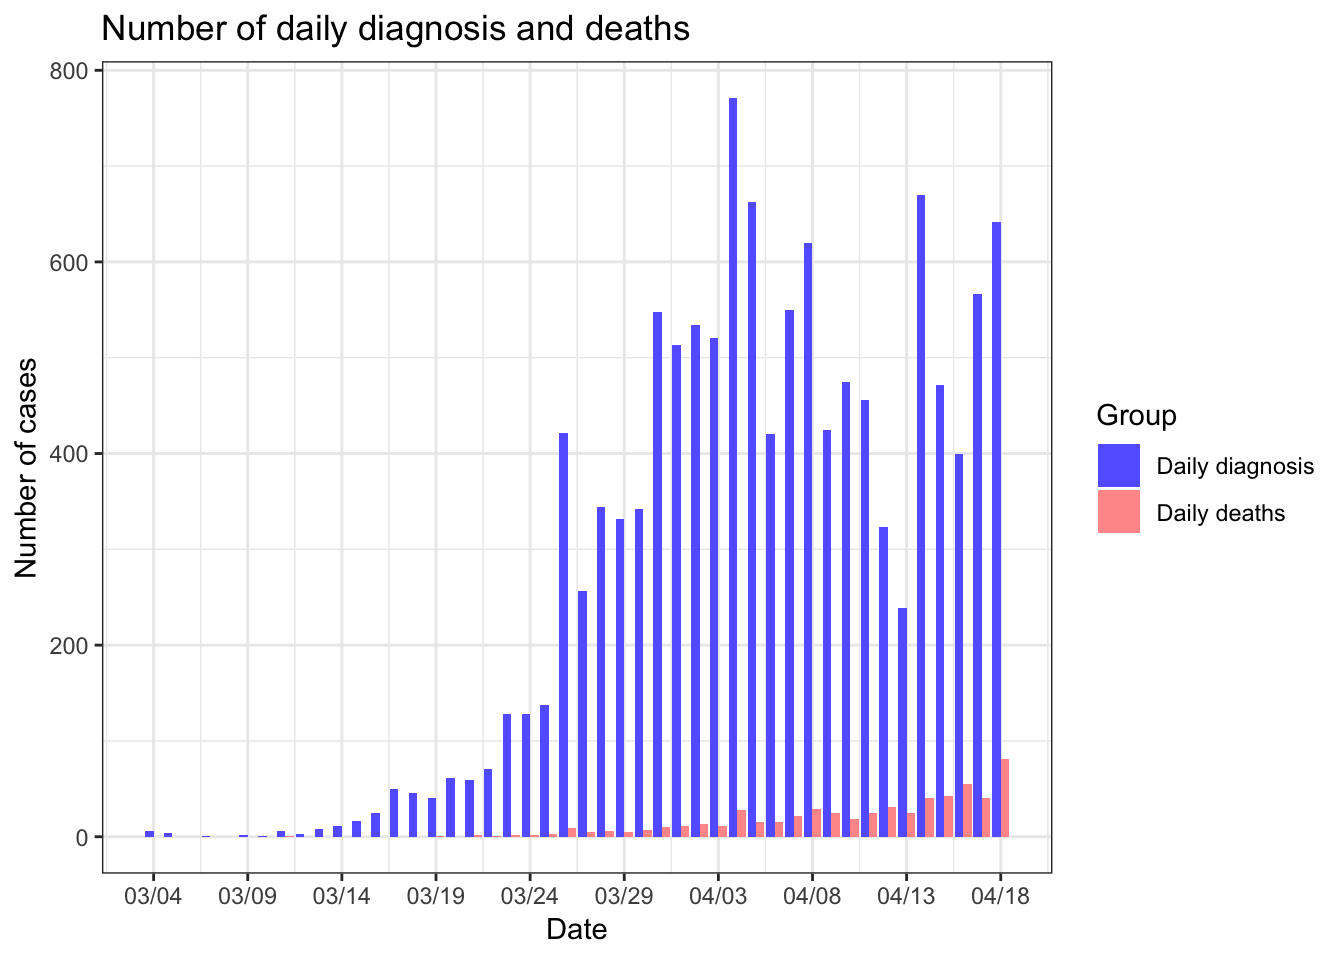
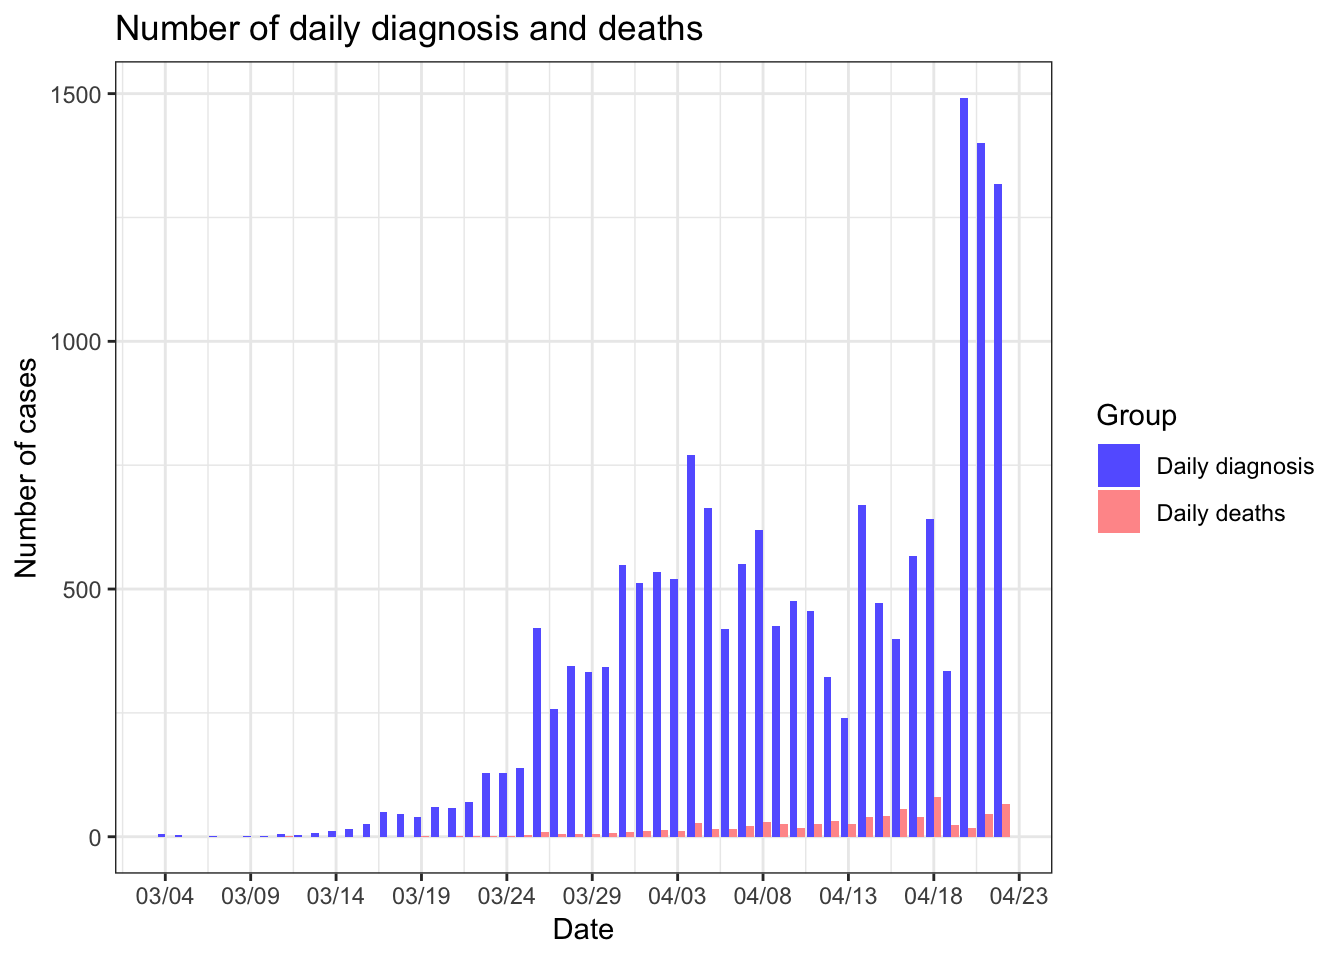
Update 4/22

diff --git a/Covid-19_LA.html b/Covid-19_LA.html
@@ -216,11 +216,14 @@ $(document).ready(function () {
 </div>
 
 
-<p><img src="Covid-19_LA_files/figure-html/unnamed-chunk-3-1.png" width="672" /></p>
-<div id="htmlwidget-d3be9e17d50a4275c31b" style="width:672px;height:480px;" class="plotly html-widget"></div>
-<script type="application/json" data-for="htmlwidget-d3be9e17d50a4275c31b">{"x":{"visdat":{"47fc4d89818f":["function () ","plotlyVisDat"]},"cur_data":"47fc4d89818f","attrs":{"47fc4d89818f":{"x":{},"y":{},"mode":"lines+markers","alpha_stroke":1,"sizes":[10,100],"spans":[1,20]}},"layout":{"margin":{"b":40,"l":60,"t":25,"r":10},"title":"Cumulative number of diagnosis","xaxis":{"domain":[0,1],"automargin":true,"title":"Date"},"yaxis":{"domain":[0,1],"automargin":true,"title":"Number of cases"},"hovermode":"closest","showlegend":false},"source":"A","config":{"showSendToCloud":false},"data":[{"x":["2020-03-04","2020-03-05","2020-03-06","2020-03-07","2020-03-08","2020-03-09","2020-03-10","2020-03-11","2020-03-12","2020-03-13","2020-03-14","2020-03-15","2020-03-16","2020-03-17","2020-03-18","2020-03-19","2020-03-20","2020-03-21","2020-03-22","2020-03-23","2020-03-24","2020-03-25","2020-03-26","2020-03-27","2020-03-28","2020-03-29","2020-03-30","2020-03-31","2020-04-01","2020-04-02","2020-04-03","2020-04-04","2020-04-05","2020-04-06","2020-04-07","2020-04-08","2020-04-09","2020-04-10","2020-04-11","2020-04-12","2020-04-13","2020-04-14","2020-04-15","2020-04-16","2020-04-17","2020-04-18"],"y":[6,10,10,11,11,13,14,20,23,31,42,58,83,133,179,219,280,351,409,536,662,799,1216,1465,1804,2136,2474,3011,3518,4045,4566,5277,5940,6360,6910,7530,7955,8430,8873,9192,9420,10047,10496,10844,11391,12921],"mode":"lines+markers","type":"scatter","marker":{"color":"rgba(31,119,180,1)","line":{"color":"rgba(31,119,180,1)"}},"error_y":{"color":"rgba(31,119,180,1)"},"error_x":{"color":"rgba(31,119,180,1)"},"line":{"color":"rgba(31,119,180,1)"},"xaxis":"x","yaxis":"y","frame":null}],"highlight":{"on":"plotly_click","persistent":false,"dynamic":false,"selectize":false,"opacityDim":0.2,"selected":{"opacity":1},"debounce":0},"shinyEvents":["plotly_hover","plotly_click","plotly_selected","plotly_relayout","plotly_brushed","plotly_brushing","plotly_clickannotation","plotly_doubleclick","plotly_deselect","plotly_afterplot","plotly_sunburstclick"],"base_url":"https://plot.ly"},"evals":[],"jsHooks":[]}</script>
-<p><img src="Covid-19_LA_files/figure-html/unnamed-chunk-7-1.png" width="672" /></p>
-<p><img src="Covid-19_LA_files/figure-html/unnamed-chunk-8-1.png" width="672" /></p>
+<div id="htmlwidget-66b3b5b74f5c6f4a5b95" style="width:1000px;height:500px;" class="plotly html-widget"></div>
+<script type="application/json" data-for="htmlwidget-66b3b5b74f5c6f4a5b95">{"x":{"visdat":{"10b513707e78d":["function () ","plotlyVisDat"]},"cur_data":"10b513707e78d","attrs":{"10b513707e78d":{"x":{},"y":{},"marker":{"color":"#6666FF"},"name":"Daily diagnosis","alpha_stroke":1,"sizes":[10,100],"spans":[1,20],"type":"bar"},"10b513707e78d.1":{"x":{},"y":{},"marker":{"color":"#FF9999"},"name":"Daily deaths","alpha_stroke":1,"sizes":[10,100],"spans":[1,20],"type":"bar","inherit":true}},"layout":{"width":1000,"height":500,"margin":{"b":40,"l":60,"t":25,"r":10},"title":"Daily diagnosis/death","xaxis":{"domain":[0,1],"automargin":true,"title":"Date"},"yaxis":{"domain":[0,1],"automargin":true,"title":"Number of cases"},"hovermode":"closest","showlegend":true},"source":"A","config":{"showSendToCloud":false},"data":[{"x":["2020-03-04","2020-03-05","2020-03-06","2020-03-07","2020-03-08","2020-03-09","2020-03-10","2020-03-11","2020-03-12","2020-03-13","2020-03-14","2020-03-15","2020-03-16","2020-03-17","2020-03-18","2020-03-19","2020-03-20","2020-03-21","2020-03-22","2020-03-23","2020-03-24","2020-03-25","2020-03-26","2020-03-27","2020-03-28","2020-03-29","2020-03-30","2020-03-31","2020-04-01","2020-04-02","2020-04-03","2020-04-04","2020-04-05","2020-04-06","2020-04-07","2020-04-08","2020-04-09","2020-04-10","2020-04-11","2020-04-12","2020-04-13","2020-04-14","2020-04-15","2020-04-16","2020-04-17","2020-04-18","2020-04-19","2020-04-20","2020-04-21","2020-04-22"],"y":[6,4,0,1,0,2,1,6,3,8,11,16,25,50,46,40,61,59,71,128,128,138,421,257,344,332,342,548,513,534,521,771,663,420,550,620,425,475,456,323,239,670,472,399,567,642,334,1491,1400,1318],"marker":{"color":"#6666FF","line":{"color":"rgba(31,119,180,1)"}},"name":"Daily diagnosis","type":"bar","error_y":{"color":"rgba(31,119,180,1)"},"error_x":{"color":"rgba(31,119,180,1)"},"xaxis":"x","yaxis":"y","frame":null},{"x":["2020-03-04","2020-03-05","2020-03-06","2020-03-07","2020-03-08","2020-03-09","2020-03-10","2020-03-11","2020-03-12","2020-03-13","2020-03-14","2020-03-15","2020-03-16","2020-03-17","2020-03-18","2020-03-19","2020-03-20","2020-03-21","2020-03-22","2020-03-23","2020-03-24","2020-03-25","2020-03-26","2020-03-27","2020-03-28","2020-03-29","2020-03-30","2020-03-31","2020-04-01","2020-04-02","2020-04-03","2020-04-04","2020-04-05","2020-04-06","2020-04-07","2020-04-08","2020-04-09","2020-04-10","2020-04-11","2020-04-12","2020-04-13","2020-04-14","2020-04-15","2020-04-16","2020-04-17","2020-04-18","2020-04-19","2020-04-20","2020-04-21","2020-04-22"],"y":[0,0,0,0,0,0,0,1,0,0,0,0,0,0,0,1,0,2,1,2,2,3,9,5,6,5,7,10,11,13,11,28,15,15,22,29,25,18,25,31,25,40,42,55,40,81,24,17,46,66],"marker":{"color":"#FF9999","line":{"color":"rgba(255,127,14,1)"}},"name":"Daily deaths","type":"bar","error_y":{"color":"rgba(255,127,14,1)"},"error_x":{"color":"rgba(255,127,14,1)"},"xaxis":"x","yaxis":"y","frame":null}],"highlight":{"on":"plotly_click","persistent":false,"dynamic":false,"selectize":false,"opacityDim":0.2,"selected":{"opacity":1},"debounce":0},"shinyEvents":["plotly_hover","plotly_click","plotly_selected","plotly_relayout","plotly_brushed","plotly_brushing","plotly_clickannotation","plotly_doubleclick","plotly_deselect","plotly_afterplot","plotly_sunburstclick"],"base_url":"https://plot.ly"},"evals":[],"jsHooks":[]}</script>
+<div id="htmlwidget-3052edb44885f411e45b" style="width:672px;height:480px;" class="plotly html-widget"></div>
+<script type="application/json" data-for="htmlwidget-3052edb44885f411e45b">{"x":{"visdat":{"10b511eb5a53d":["function () ","plotlyVisDat"]},"cur_data":"10b511eb5a53d","attrs":{"10b511eb5a53d":{"x":{},"y":{},"mode":"lines+markers","line":{"color":"#6666FF"},"marker":{"color":"#6666FF"},"alpha_stroke":1,"sizes":[10,100],"spans":[1,20]}},"layout":{"margin":{"b":40,"l":60,"t":25,"r":10},"title":"Cumulative number of diagnosis","xaxis":{"domain":[0,1],"automargin":true,"title":"Date"},"yaxis":{"domain":[0,1],"automargin":true,"title":"Number of cases"},"hovermode":"closest","showlegend":false},"source":"A","config":{"showSendToCloud":false},"data":[{"x":["2020-03-04","2020-03-05","2020-03-06","2020-03-07","2020-03-08","2020-03-09","2020-03-10","2020-03-11","2020-03-12","2020-03-13","2020-03-14","2020-03-15","2020-03-16","2020-03-17","2020-03-18","2020-03-19","2020-03-20","2020-03-21","2020-03-22","2020-03-23","2020-03-24","2020-03-25","2020-03-26","2020-03-27","2020-03-28","2020-03-29","2020-03-30","2020-03-31","2020-04-01","2020-04-02","2020-04-03","2020-04-04","2020-04-05","2020-04-06","2020-04-07","2020-04-08","2020-04-09","2020-04-10","2020-04-11","2020-04-12","2020-04-13","2020-04-14","2020-04-15","2020-04-16","2020-04-17","2020-04-18","2020-04-19","2020-04-20","2020-04-21","2020-04-22"],"y":[6,10,10,11,11,13,14,20,23,31,42,58,83,133,179,219,280,351,409,536,662,799,1216,1465,1804,2136,2474,3011,3518,4045,4566,5277,5940,6360,6910,7530,7955,8430,8873,9192,9420,10047,10496,10844,11391,12021,12341,13816,15140,16435],"mode":"lines+markers","line":{"color":"#6666FF"},"marker":{"color":"#6666FF","line":{"color":"rgba(31,119,180,1)"}},"type":"scatter","error_y":{"color":"rgba(31,119,180,1)"},"error_x":{"color":"rgba(31,119,180,1)"},"xaxis":"x","yaxis":"y","frame":null}],"highlight":{"on":"plotly_click","persistent":false,"dynamic":false,"selectize":false,"opacityDim":0.2,"selected":{"opacity":1},"debounce":0},"shinyEvents":["plotly_hover","plotly_click","plotly_selected","plotly_relayout","plotly_brushed","plotly_brushing","plotly_clickannotation","plotly_doubleclick","plotly_deselect","plotly_afterplot","plotly_sunburstclick"],"base_url":"https://plot.ly"},"evals":[],"jsHooks":[]}</script>
+<div id="htmlwidget-6d44d3f9bd36cf51f4ba" style="width:672px;height:480px;" class="plotly html-widget"></div>
+<script type="application/json" data-for="htmlwidget-6d44d3f9bd36cf51f4ba">{"x":{"visdat":{"10b513ec66ace":["function () ","plotlyVisDat"]},"cur_data":"10b513ec66ace","attrs":{"10b513ec66ace":{"x":{},"y":{},"mode":"lines+markers","line":{"color":"#6666FF"},"marker":{"color":"#6666FF"},"alpha_stroke":1,"sizes":[10,100],"spans":[1,20]}},"layout":{"margin":{"b":40,"l":60,"t":25,"r":10},"title":"Increase rate of daily diagnosis","xaxis":{"domain":[0,1],"automargin":true,"title":"Date"},"yaxis":{"domain":[0,1],"automargin":true,"title":"Increase rate of daily diagnosis","range":[0,100]},"hovermode":"closest","showlegend":false},"source":"A","config":{"showSendToCloud":false},"data":[{"x":["2020-03-05","2020-03-06","2020-03-07","2020-03-08","2020-03-09","2020-03-10","2020-03-11","2020-03-12","2020-03-13","2020-03-14","2020-03-15","2020-03-16","2020-03-17","2020-03-18","2020-03-19","2020-03-20","2020-03-21","2020-03-22","2020-03-23","2020-03-24","2020-03-25","2020-03-26","2020-03-27","2020-03-28","2020-03-29","2020-03-30","2020-03-31","2020-04-01","2020-04-02","2020-04-03","2020-04-04","2020-04-05","2020-04-06","2020-04-07","2020-04-08","2020-04-09","2020-04-10","2020-04-11","2020-04-12","2020-04-13","2020-04-14","2020-04-15","2020-04-16","2020-04-17","2020-04-18","2020-04-19","2020-04-20","2020-04-21","2020-04-22"],"y":[66.7,0,10,0,18.2,7.7,42.9,15,34.8,35.5,38.1,43.1,60.2,34.6,22.3,27.9,21.1,20.9,31.2,23.8,20.7,52.4,21,23.2,18.2,15.8,21.9,16.8,15,12.7,16.7,12.3,6.9,8.5,8.8,5.6,5.9,5.3,3.6,2.6,7,4.6,3.7,5.1,5.5,2.7,11.8,9.9,8.5],"mode":"lines+markers","line":{"color":"#6666FF"},"marker":{"color":"#6666FF","line":{"color":"rgba(31,119,180,1)"}},"type":"scatter","error_y":{"color":"rgba(31,119,180,1)"},"error_x":{"color":"rgba(31,119,180,1)"},"xaxis":"x","yaxis":"y","frame":null}],"highlight":{"on":"plotly_click","persistent":false,"dynamic":false,"selectize":false,"opacityDim":0.2,"selected":{"opacity":1},"debounce":0},"shinyEvents":["plotly_hover","plotly_click","plotly_selected","plotly_relayout","plotly_brushed","plotly_brushing","plotly_clickannotation","plotly_doubleclick","plotly_deselect","plotly_afterplot","plotly_sunburstclick"],"base_url":"https://plot.ly"},"evals":[],"jsHooks":[]}</script>
+<div id="htmlwidget-55fc4a68529ca693aef4" style="width:672px;height:480px;" class="plotly html-widget"></div>
+<script type="application/json" data-for="htmlwidget-55fc4a68529ca693aef4">{"x":{"visdat":{"10b51548e1a94":["function () ","plotlyVisDat"]},"cur_data":"10b51548e1a94","attrs":{"10b51548e1a94":{"x":{},"y":{},"mode":"lines+markers","line":{"color":"#FF9999"},"marker":{"color":"#FF9999"},"alpha_stroke":1,"sizes":[10,100],"spans":[1,20]}},"layout":{"margin":{"b":40,"l":60,"t":25,"r":10},"title":"Increase rate of daily deaths","xaxis":{"domain":[0,1],"automargin":true,"title":"Date"},"yaxis":{"domain":[0,1],"automargin":true,"title":"Increase rate of daily deaths","range":[0,100]},"hovermode":"closest","showlegend":false},"source":"A","config":{"showSendToCloud":false},"data":[{"x":["2020-03-04","2020-03-05","2020-03-06","2020-03-07","2020-03-08","2020-03-09","2020-03-10","2020-03-11","2020-03-12","2020-03-13","2020-03-14","2020-03-15","2020-03-16","2020-03-17","2020-03-18","2020-03-19","2020-03-20","2020-03-21","2020-03-22","2020-03-23","2020-03-24","2020-03-25","2020-03-26","2020-03-27","2020-03-28","2020-03-29","2020-03-30","2020-03-31","2020-04-01","2020-04-02","2020-04-03","2020-04-04","2020-04-05","2020-04-06","2020-04-07","2020-04-08","2020-04-09","2020-04-10","2020-04-11","2020-04-12","2020-04-13","2020-04-14","2020-04-15","2020-04-16","2020-04-17","2020-04-18","2020-04-19","2020-04-20","2020-04-21","2020-04-22"],"y":[0,0,0,0,0,0,0,5,4.3,3.2,2.4,1.7,1.2,0.8,0.6,0.9,0.7,1.2,1.2,1.3,1.4,1.5,1.7,1.8,1.8,1.7,1.8,1.8,1.8,1.9,1.9,2.2,2.2,2.3,2.4,2.6,2.8,2.8,3,3.2,3.4,3.5,3.8,4.1,4.3,4.1,4.8,4.4,4.3,4.4],"mode":"lines+markers","line":{"color":"#FF9999"},"marker":{"color":"#FF9999","line":{"color":"rgba(31,119,180,1)"}},"type":"scatter","error_y":{"color":"rgba(31,119,180,1)"},"error_x":{"color":"rgba(31,119,180,1)"},"xaxis":"x","yaxis":"y","frame":null}],"highlight":{"on":"plotly_click","persistent":false,"dynamic":false,"selectize":false,"opacityDim":0.2,"selected":{"opacity":1},"debounce":0},"shinyEvents":["plotly_hover","plotly_click","plotly_selected","plotly_relayout","plotly_brushed","plotly_brushing","plotly_clickannotation","plotly_doubleclick","plotly_deselect","plotly_afterplot","plotly_sunburstclick"],"base_url":"https://plot.ly"},"evals":[],"jsHooks":[]}</script>
 
 
 
